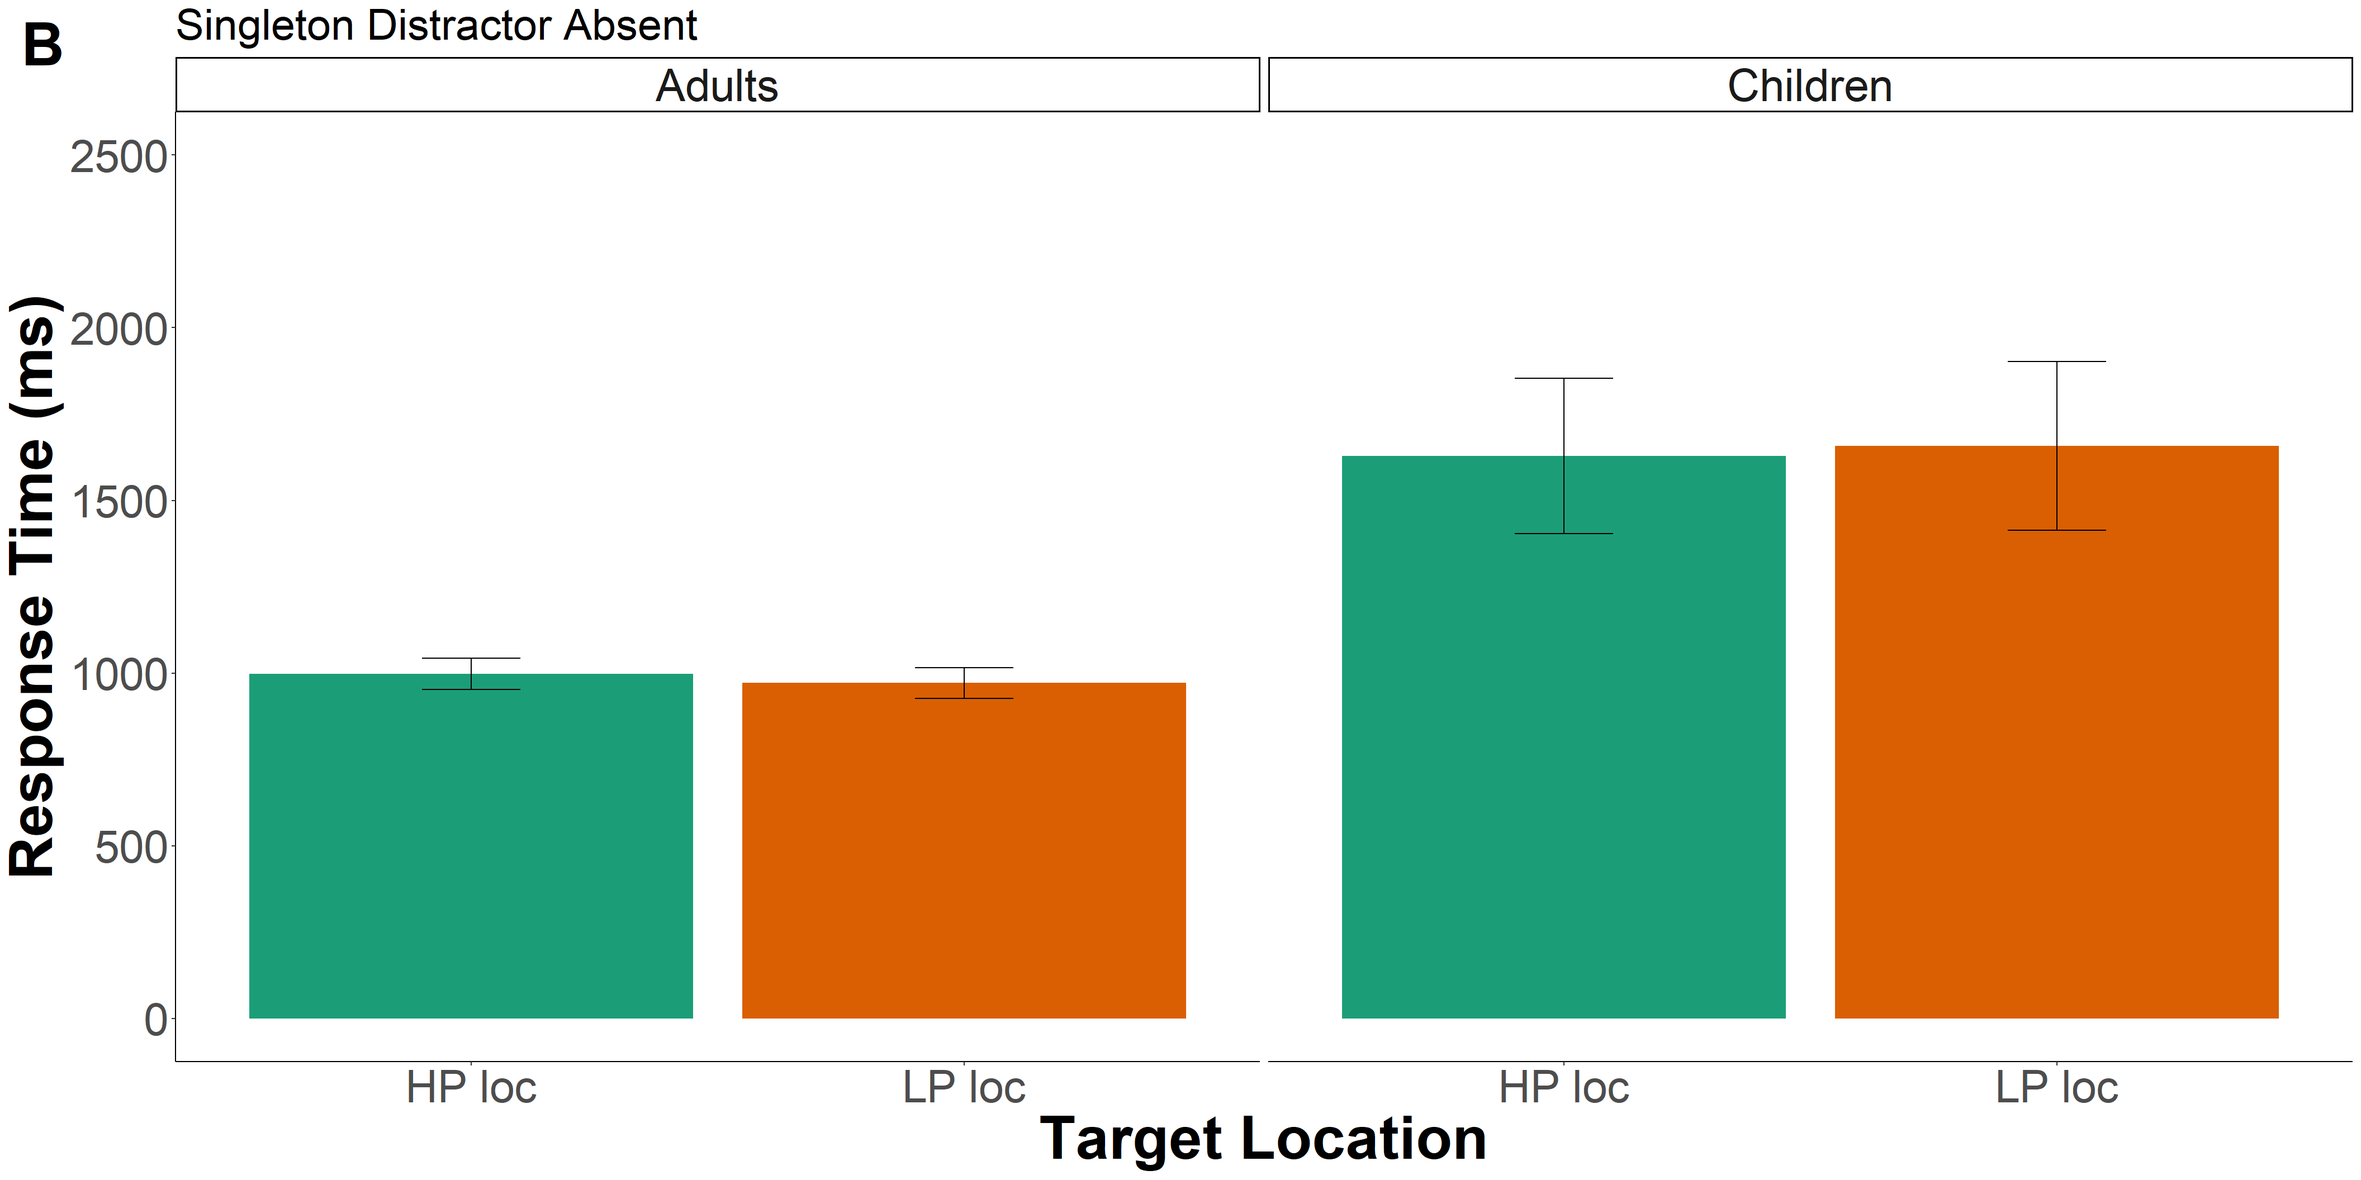
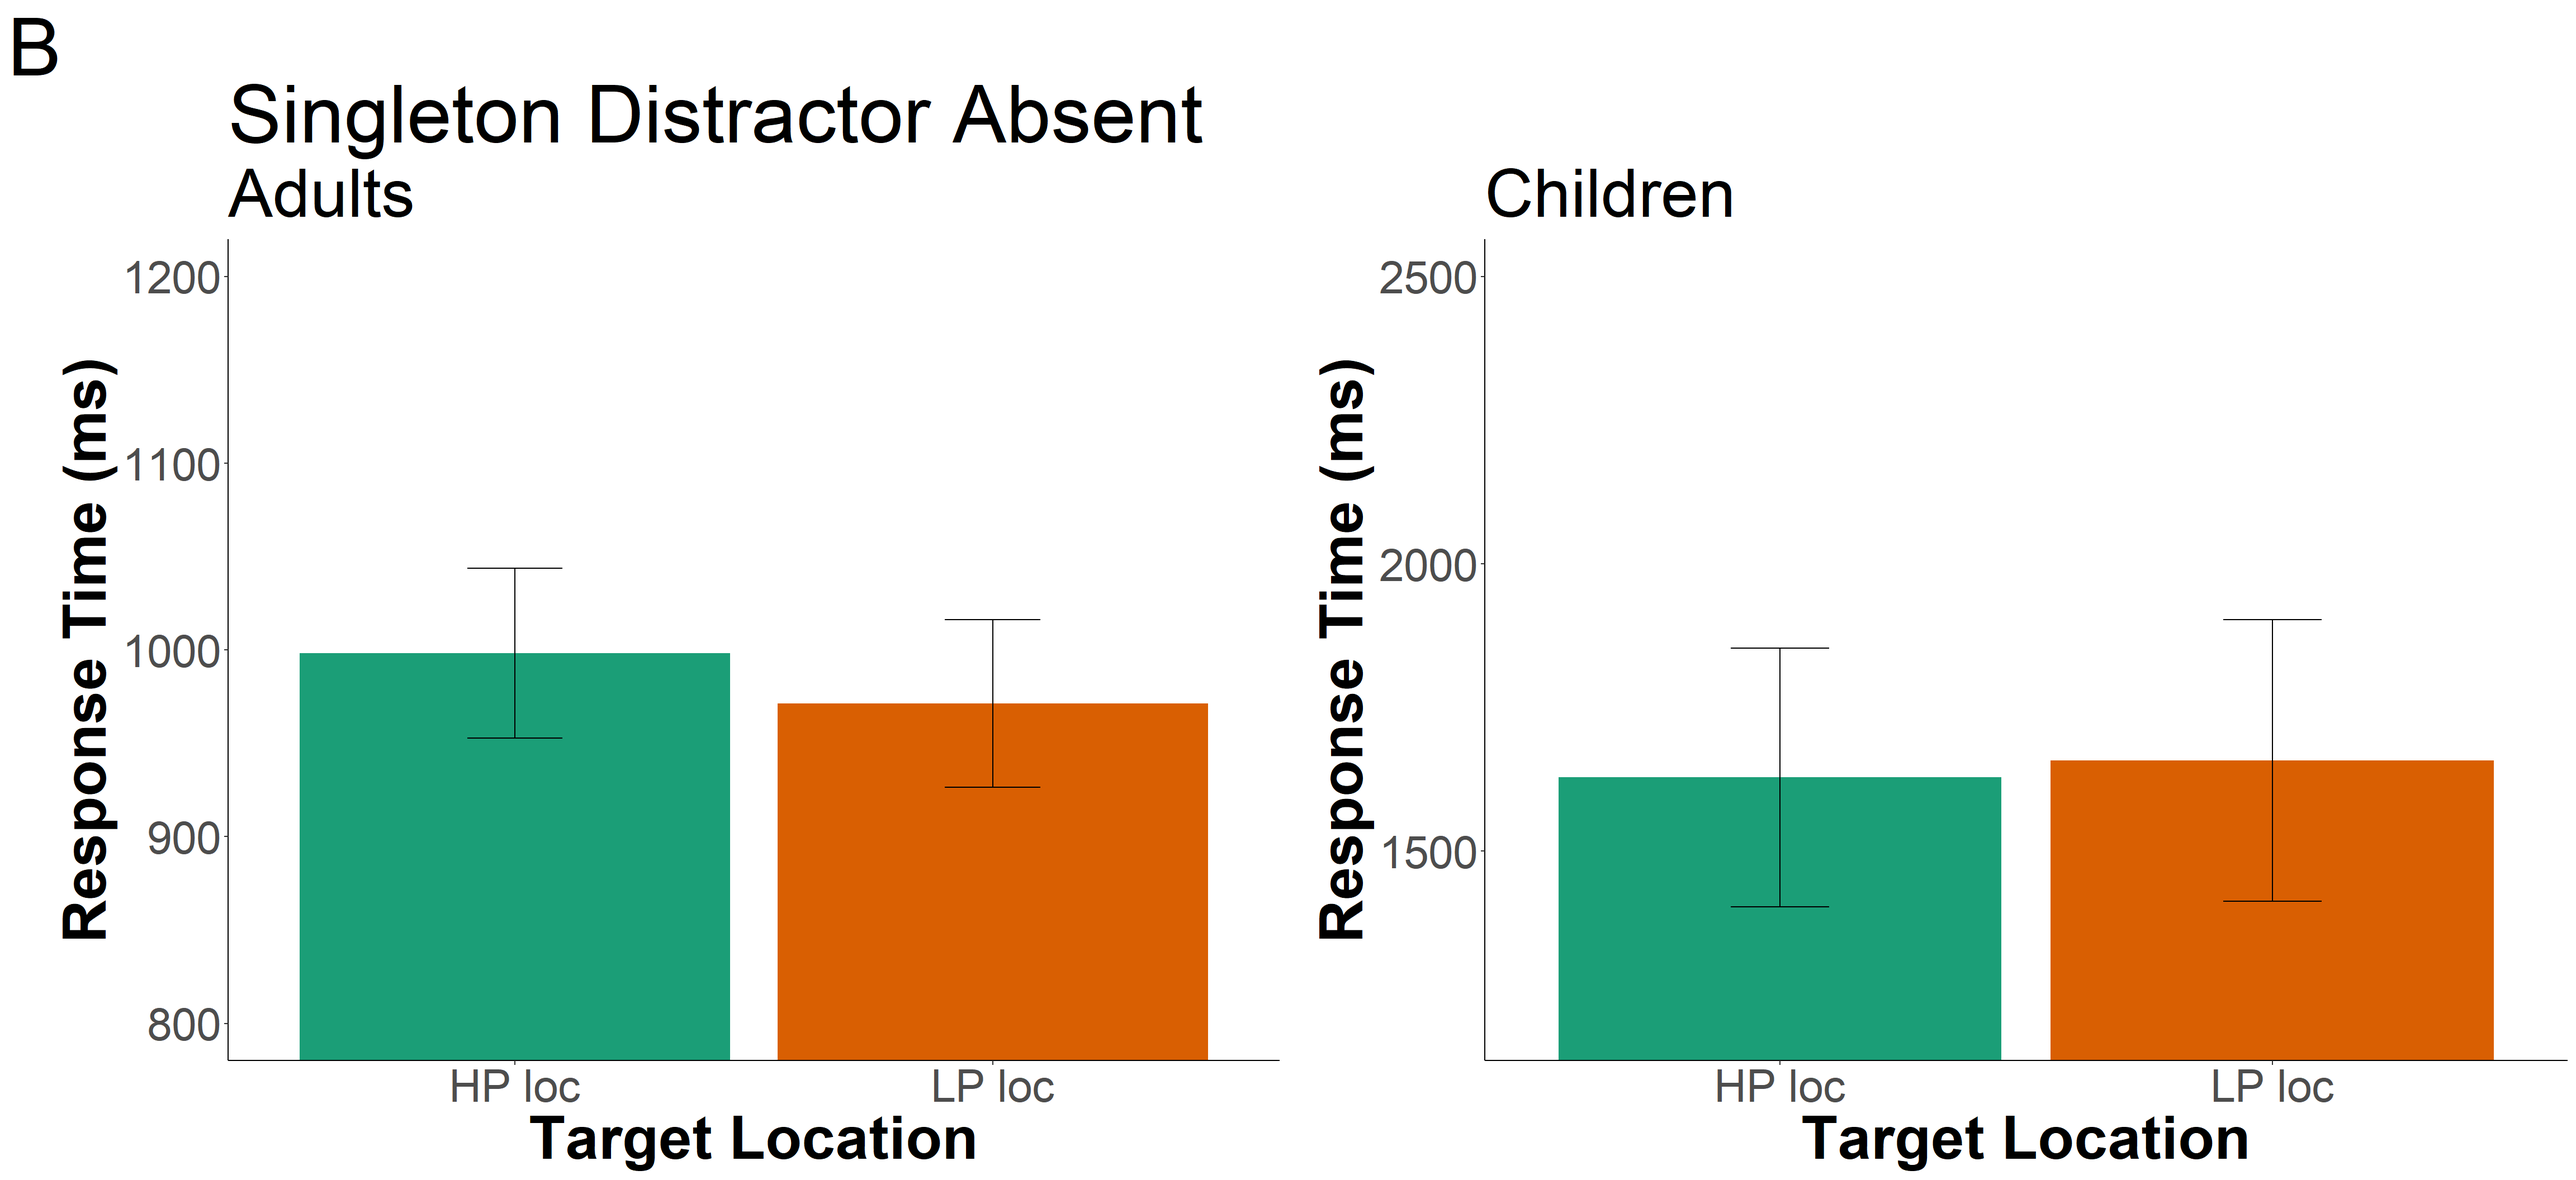
last update of the day

diff --git a/docs/p08.html b/docs/p08.html
@@ -483,7 +483,7 @@ a&lt;-ggplot(subset(sum_stats, age %in% c(&quot;adult&quot;)),aes(x = relative_h
         axis.title=element_text(size=40,face=&quot;bold&quot;),
         title = element_text(size = 45)) +
   labs(x = &quot;Distractor Location&quot;, y = &quot;Response Time (ms)&quot;)+
-  labs(subtitle = &quot;Adults&quot;, tag = &quot;A&quot;)+
+  labs(title= &quot;Singleton Distractor Present&quot;,subtitle = &quot;Adults&quot;, tag = &quot;A&quot;)+
   scale_fill_manual(values=c(&#39;#1b9e77&#39;, &#39;#d95f02&#39;, &#39;#66a61e&#39;)) +
   scale_x_discrete(labels= c(&quot;high_prob&quot;=&quot;HP loc&quot;,&quot;low_prob&quot;=&quot;LP loc&quot;,&quot;absent&quot;=&quot;Absent&quot;))
 
@@ -497,12 +497,12 @@ b&lt;-ggplot(subset(sum_stats, age %in% c(&quot;child&quot;)),aes(x = relative_h
         axis.title=element_text(size=40,face=&quot;bold&quot;),
         title = element_text(size = 45)) +
   labs(x = &quot;Distractor Location&quot;, y = &quot;Response Time (ms)&quot;)+
-  labs(subtitle = &quot;Children&quot;, tag = &quot; &quot;)+
+  labs(title = &quot;  &quot;, subtitle = &quot;Children&quot;, tag = &quot; &quot;)+
   scale_fill_manual(values=c(&#39;#1b9e77&#39;, &#39;#d95f02&#39;, &#39;#66a61e&#39;)) +
   scale_x_discrete(labels= c(&quot;high_prob&quot;=&quot;HP loc&quot;,&quot;low_prob&quot;=&quot;LP loc&quot;,&quot;absent&quot;=&quot;Absent&quot;))
 
 plot_grid(a, b, align=c(&quot;hv&quot;), label_size=40) </code></pre>
-<p><img src="p08_files/figure-html/plot-first-1.png" width="2112" /></p>
+<p><img src="p08_files/figure-html/plot-first-1.png" width="2304" /></p>
 <p>Run a 3x2 mixed design ANOVA with distractor location and age as
 independent variables and rt as the dependent variable.</p>
 <pre class="r"><code>model3 &lt;- aov_car(value ~ age*relative_hp_dist + Error(id/relative_hp_dist), data=df_mod)</code></pre>
@@ -968,6 +968,42 @@ model6 &lt;- aov_car(difference ~ block_num + Error(id/block_num), data=block_ch
 <pre class="r"><code>write.csv(space_block, &quot;space_block.csv&quot;, row.names=FALSE)</code></pre>
 <pre class="r"><code>normy &lt;- read_csv(&quot;space_block_norm.csv&quot;, show_col_types = FALSE)
 normy&lt;- subset(normy, select=c(id, age, block_num, diff_norm))</code></pre>
+<pre class="r"><code>aov_car(diff_norm ~ age*block_num + Error(id/block_num), data=normy)</code></pre>
+<pre><code>## Converting to factor: age</code></pre>
+<pre><code>## Contrasts set to contr.sum for the following variables: age</code></pre>
+<pre><code>## Anova Table (Type 3 tests)
+## 
+## Response: diff_norm
+##          Effect           df  MSE      F  ges p.value
+## 1           age        1, 31 0.05 3.55 + .016    .069
+## 2     block_num 3.26, 101.10 0.09   1.32 .035    .272
+## 3 age:block_num 3.26, 101.10 0.09   1.23 .033    .302
+## ---
+## Signif. codes:  0 &#39;***&#39; 0.001 &#39;**&#39; 0.01 &#39;*&#39; 0.05 &#39;+&#39; 0.1 &#39; &#39; 1
+## 
+## Sphericity correction method: GG</code></pre>
+<pre class="r"><code>aov_car(diff_norm ~ block_num + Error(id/block_num), data=normy)</code></pre>
+<pre><code>## Anova Table (Type 3 tests)
+## 
+## Response: diff_norm
+##      Effect           df  MSE    F  ges p.value
+## 1 block_num 3.29, 105.33 0.09 1.27 .033    .288
+## ---
+## Signif. codes:  0 &#39;***&#39; 0.001 &#39;**&#39; 0.01 &#39;*&#39; 0.05 &#39;+&#39; 0.1 &#39; &#39; 1
+## 
+## Sphericity correction method: GG</code></pre>
+<pre class="r"><code>model = aov(diff_norm~factor(block_num)+
+                Error(factor(id)), data=normy)
+summary(model)</code></pre>
+<pre><code>## 
+## Error: factor(id)
+##           Df Sum Sq Mean Sq F value Pr(&gt;F)
+## Residuals 32  1.679 0.05248               
+## 
+## Error: Within
+##                    Df Sum Sq Mean Sq F value Pr(&gt;F)
+## factor(block_num)   5  0.387 0.07749    1.27   0.28
+## Residuals         160  9.764 0.06103</code></pre>
 <pre class="r"><code>ggplot(data = normy,aes(x=block_num, y=diff_norm, group=id))+
   geom_line(aes(color=age))+
   labs(title = &quot;Difference in Response Times&quot;, subtitle = &quot;for distractor presentation at the low-probability locations and high-probability location by block&quot;)+
@@ -1065,6 +1101,58 @@ space_block6 &lt;- dcast(space_block6,id+block_num~relative_hp_dist,value.var=&#
   labs(x = &quot;Block Number&quot;, y = &quot;Difference in RT (ms)&quot;)</code></pre>
 <pre><code>## Warning: Removed 4 rows containing missing values (`geom_line()`).</code></pre>
 <p><img src="p08_files/figure-html/line_plot-kids6-1.png" width="672" /></p>
+<pre class="r"><code>spaceC &lt;- kids6 %&gt;%
+  filter(acc==1)%&gt;%
+  group_by(id, relative_hp_dist) %&gt;%
+  summarize(rts = mean(rt)
+            )</code></pre>
+<pre><code>## `summarise()` has grouped output by &#39;id&#39;. You can override using the `.groups`
+## argument.</code></pre>
+<p>Run ANOVA on 3 conditions first, and if significant, then run in on 5
+conditions?</p>
+<p>Need to reformat the above df to have a column for each
+relative_hp_dist/ID so we can average across low-probability
+locations.</p>
+<pre class="r"><code>space_anovaC &lt;- setDT(spaceC)
+space_anovaC &lt;- dcast(space_anovaC,id~relative_hp_dist,value.var=&#39;rts&#39;)</code></pre>
+<pre class="r"><code>space_anovaC &lt;- space_anovaC %&gt;%
+  mutate(low_prob = (lp_1+lp_2+lp_3)/3)</code></pre>
+<p>Now, I want to create a smaller graph with just 3 bars: one for the
+high-probability rts, average of low-probability rts, and no
+distractor.</p>
+<pre class="r"><code>df_modC &lt;- subset(space_anovaC, select=c(id, high_prob, absent, low_prob))
+
+df_modC &lt;- reshape2::melt(df_modC, id.var=c(&#39;id&#39;), variable.name= &quot;relative_hp_dist&quot;)</code></pre>
+<pre class="r"><code>sum_statsC &lt;- df_modC%&gt;%
+  group_by(relative_hp_dist)%&gt;%
+  summarize(mean_rts=mean(value),
+            sd_rt=sd(value),
+            n_rt=n(),
+            se=sd_rt/sqrt(n_rt),
+            upper_limit=mean_rts+se,
+            lower_limit=mean_rts-se
+  )
+sum_statsC</code></pre>
+<pre><code>## # A tibble: 3 × 7
+##   relative_hp_dist mean_rts sd_rt  n_rt    se upper_limit lower_limit
+##   &lt;fct&gt;               &lt;dbl&gt; &lt;dbl&gt; &lt;int&gt; &lt;dbl&gt;       &lt;dbl&gt;       &lt;dbl&gt;
+## 1 high_prob           3554. 1294.     4  647.       4201.       2907.
+## 2 absent              3402. 1193.     4  597.       3998.       2805.
+## 3 low_prob            7829. 8728.     4 4364.      12193.       3464.</code></pre>
+<pre class="r"><code>ggplot(sum_statsC,aes(x = relative_hp_dist, y = mean_rts, fill=relative_hp_dist)) +
+  geom_bar(stat = &quot;identity&quot;, show.legend = FALSE)+
+  geom_errorbar(aes(ymin=lower_limit, ymax=upper_limit), width=0.2)+
+  #coord_cartesian(ylim = c(800, 1200))+ 
+  #facet_grid(~age, scales=&quot;free&quot;, labeller = labeller(age=supp.labs)) +
+  theme_classic()+
+  #theme(axis.text=element_text(size=30),
+        #axis.title=element_text(size=40,face=&quot;bold&quot;),
+        #title = element_text(size = 45)) +
+  labs(x = &quot;Distractor Location&quot;, y = &quot;Response Time (ms)&quot;)+
+  labs(title= &quot;Singleton Distractor Present&quot;,subtitle = &quot;Kids aged 6-7&quot;, tag = &quot;A&quot;)+
+  scale_fill_manual(values=c(&#39;#1b9e77&#39;, &#39;#d95f02&#39;, &#39;#66a61e&#39;)) +
+  scale_x_discrete(labels= c(&quot;high_prob&quot;=&quot;HP loc&quot;,&quot;low_prob&quot;=&quot;LP loc&quot;,&quot;absent&quot;=&quot;Absent&quot;))</code></pre>
+<p><img src="p08_files/figure-html/plot-6-1.png" width="672" /></p>
 </div>
 
 

diff --git a/docs/p10.html b/docs/p10.html
@@ -442,23 +442,38 @@ df_mod &lt;- reshape2::melt(df_mod, id.var=c(&#39;id&#39;, &#39;age&#39;), varia
 <pre class="r"><code>supp.labs &lt;- c(&quot;Adults&quot;, &quot;Children&quot;)
 names(supp.labs) &lt;- c(&quot;adult&quot;, &quot;child&quot;)
 
-a&lt;-ggplot(data = sum_stats, aes(x = relative_target, y = mean_rts, fill=relative_target)) +
+a&lt;-ggplot(subset(sum_stats, age %in% c(&quot;adult&quot;)),aes(x = relative_target, y = mean_rts, fill=relative_target)) +
   geom_bar(stat = &quot;identity&quot;, show.legend = FALSE)+
   geom_errorbar(aes(ymin=lower_limit, ymax=upper_limit), width=0.2)+
-  coord_cartesian(ylim = c(0,2500))+ 
-  facet_grid(.~age, labeller = labeller(age=supp.labs)) +
+  coord_cartesian(ylim = c(800, 1200))+ 
+  #facet_grid(~age, scales=&quot;free&quot;, labeller = labeller(age=supp.labs)) +
   theme_classic()+
   theme(axis.text=element_text(size=30),
         axis.title=element_text(size=40,face=&quot;bold&quot;),
-        title = element_text(size = 24),
-        strip.text.x = element_text(size=30)) +
+        title = element_text(size = 45)) +
   labs(x = &quot;Target Location&quot;, y = &quot;Response Time (ms)&quot;)+
-  labs(title = &quot;Singleton Distractor Absent&quot;)+
- scale_fill_manual(values=c(&#39;#1b9e77&#39;, &#39;#d95f02&#39;)) +
+  labs(title = &quot;Singleton Distractor Absent&quot;, subtitle = &quot;Adults&quot;, tag = &quot;B&quot;)+
+  scale_fill_manual(values=c(&#39;#1b9e77&#39;, &#39;#d95f02&#39;)) +
   scale_x_discrete(labels= c(&quot;high_prob&quot;=&quot;HP loc&quot;,&quot;low_prob&quot;=&quot;LP loc&quot;))
 
-plot_grid(a,labels = c(&#39;B&#39;), label_size=40)</code></pre>
-<p><img src="p10_files/figure-html/plot-first-1.png" width="2112" /></p>
+b&lt;-ggplot(subset(sum_stats, age %in% c(&quot;child&quot;)),aes(x = relative_target, y = mean_rts, fill=relative_target)) +
+  geom_bar(stat = &quot;identity&quot;, show.legend = FALSE)+
+  geom_errorbar(aes(ymin=lower_limit, ymax=upper_limit), width=0.2)+
+  coord_cartesian(ylim = c(1200, 2500))+ 
+  #facet_grid(~age, scales=&quot;free&quot;, labeller = labeller(age=supp.labs)) +
+  theme_classic()+
+  theme(axis.text=element_text(size=30),
+        axis.title=element_text(size=40,face=&quot;bold&quot;),
+        title = element_text(size = 45)) +
+  labs(x = &quot;Target Location&quot;, y = &quot;Response Time (ms)&quot;)+
+  labs(title = &quot;  &quot;,subtitle = &quot;Children&quot;, tag = &quot; &quot;)+
+  scale_fill_manual(values=c(&#39;#1b9e77&#39;, &#39;#d95f02&#39;)) +
+  scale_x_discrete(labels= c(&quot;high_prob&quot;=&quot;HP loc&quot;,&quot;low_prob&quot;=&quot;LP loc&quot;))
+
+
+
+plot_grid(a,b,label_size=40)</code></pre>
+<p><img src="p10_files/figure-html/plot-first-1.png" width="2304" /></p>
 <p>Run a 2x2 mixed design ANOVA with distractor location and age as
 independent variables and rt as the dependent variable.</p>
 <pre class="r"><code>model3 &lt;- aov_car(value ~ age*relative_target + Error(id/relative_target), data=df_mod)</code></pre>
